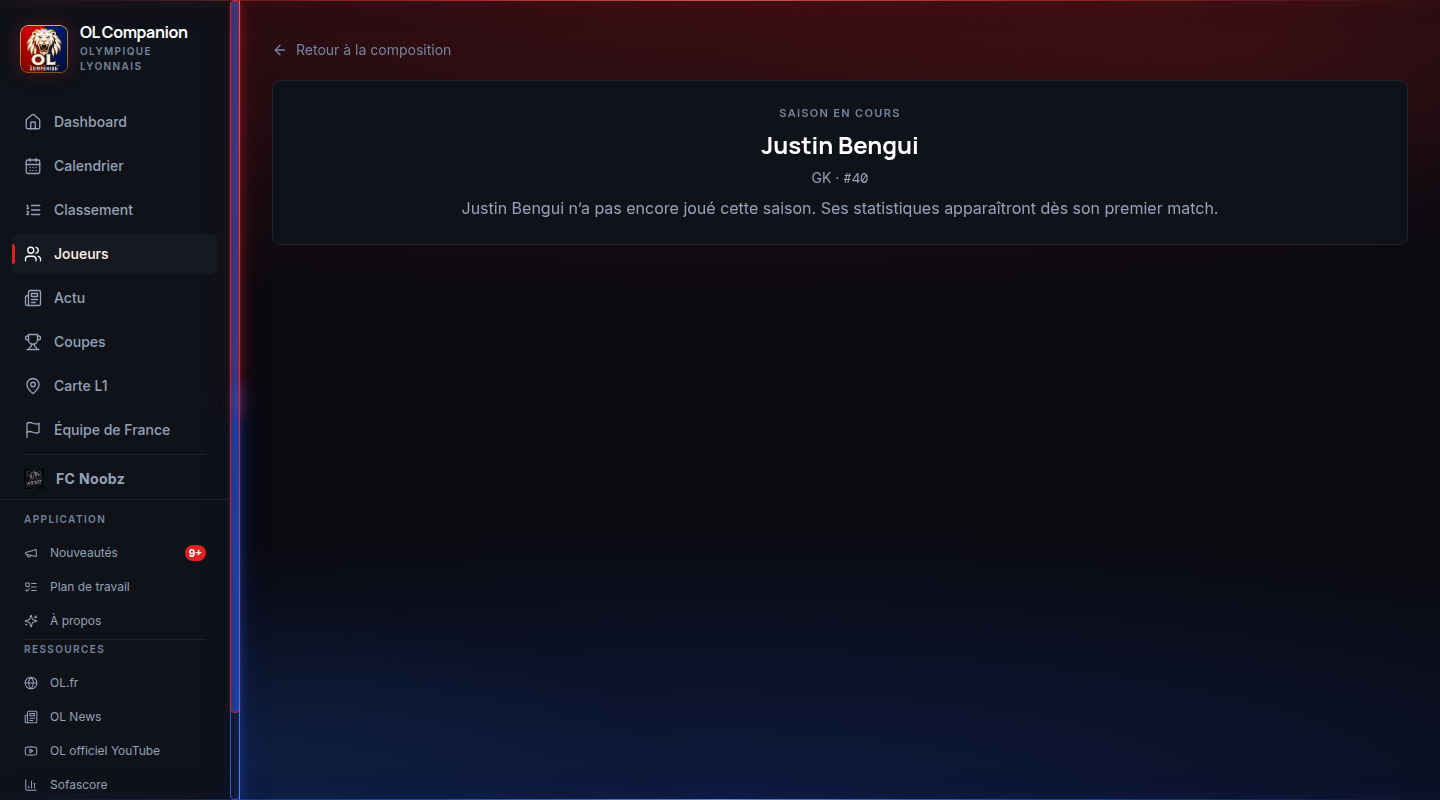
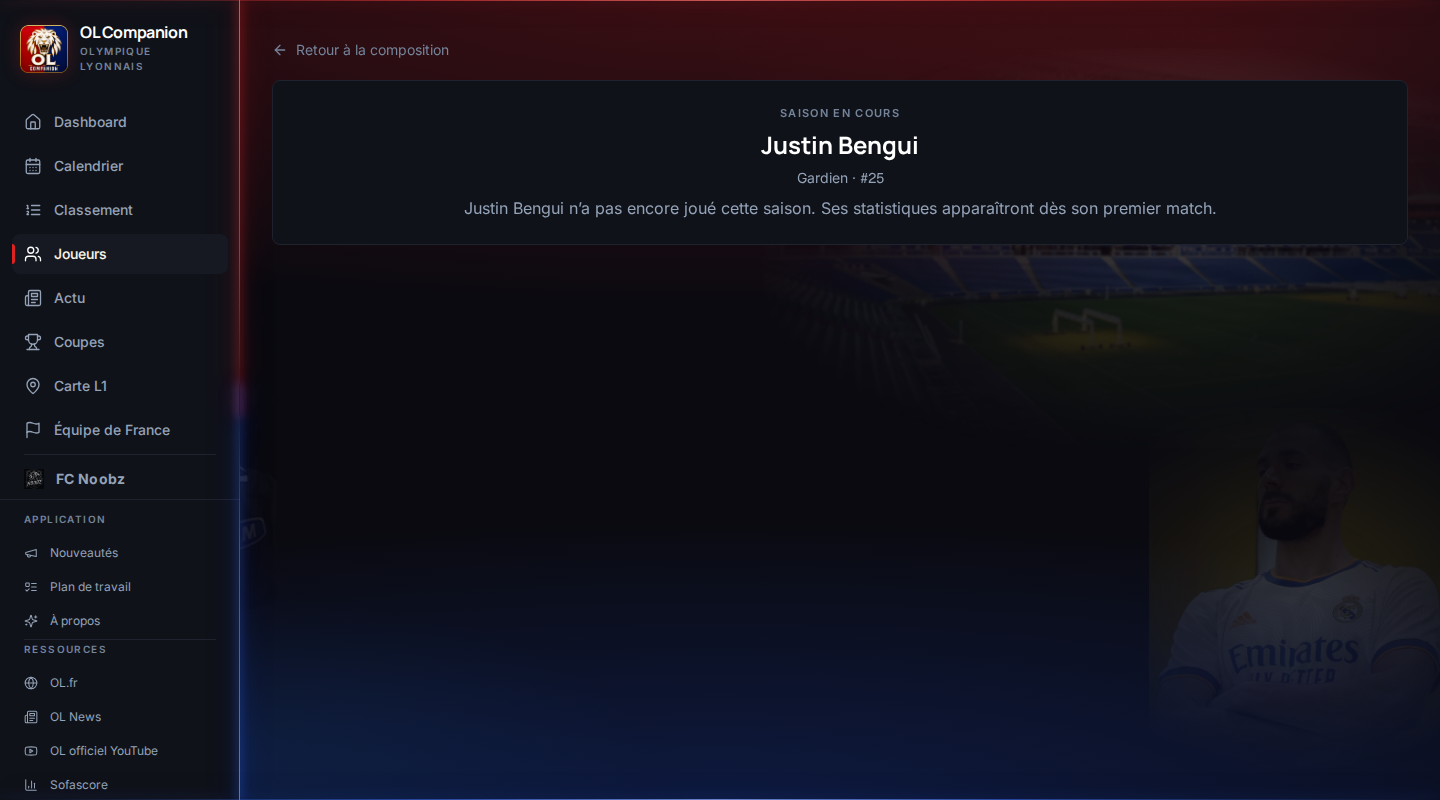
fix(L209): captures 1440 et 390 px refaites avec le poste en français (Gardien · #25), textes alternatifs conformes à l'image

diff --git a/docs/nouveautes/2026-10-22-fiche-d-un-joueur-son-nom-s-affiche-toujours.md b/docs/nouveautes/2026-10-22-fiche-d-un-joueur-son-nom-s-affiche-toujours.md
@@ -4,7 +4,7 @@ date: 2026-10-22
 created: 2026-10-22T08:50+02:00
 lots: [L209]
 captures:
-  - { file: captures/joueur-sans-minute-1440.png, alt: "Fiche d'un joueur sans minute à 1440 px : titre Justin Bengui, poste Gardien, numéro 40, message neutre" }
-  - { file: captures/joueur-sans-minute-390.png, alt: "La même fiche à 390 px" }
+  - { file: captures/joueur-sans-minute-1440.png, alt: "Fiche d'un joueur sans minute à 1440 px : titre Justin Bengui, ligne « Gardien · #25 », message neutre" }
+  - { file: captures/joueur-sans-minute-390.png, alt: "La même fiche à 390 px : titre Justin Bengui, ligne « Gardien · #25 », message neutre" }
 ---
 La fiche d'un joueur qui n'a pas encore joué cette saison affiche toujours son nom en titre. Il est lu dans la dernière feuille de match, ou à défaut dans la composition probable du prochain match. Si le joueur n'y figure nulle part, le titre est « Joueur » au lieu d'une page sans titre.
